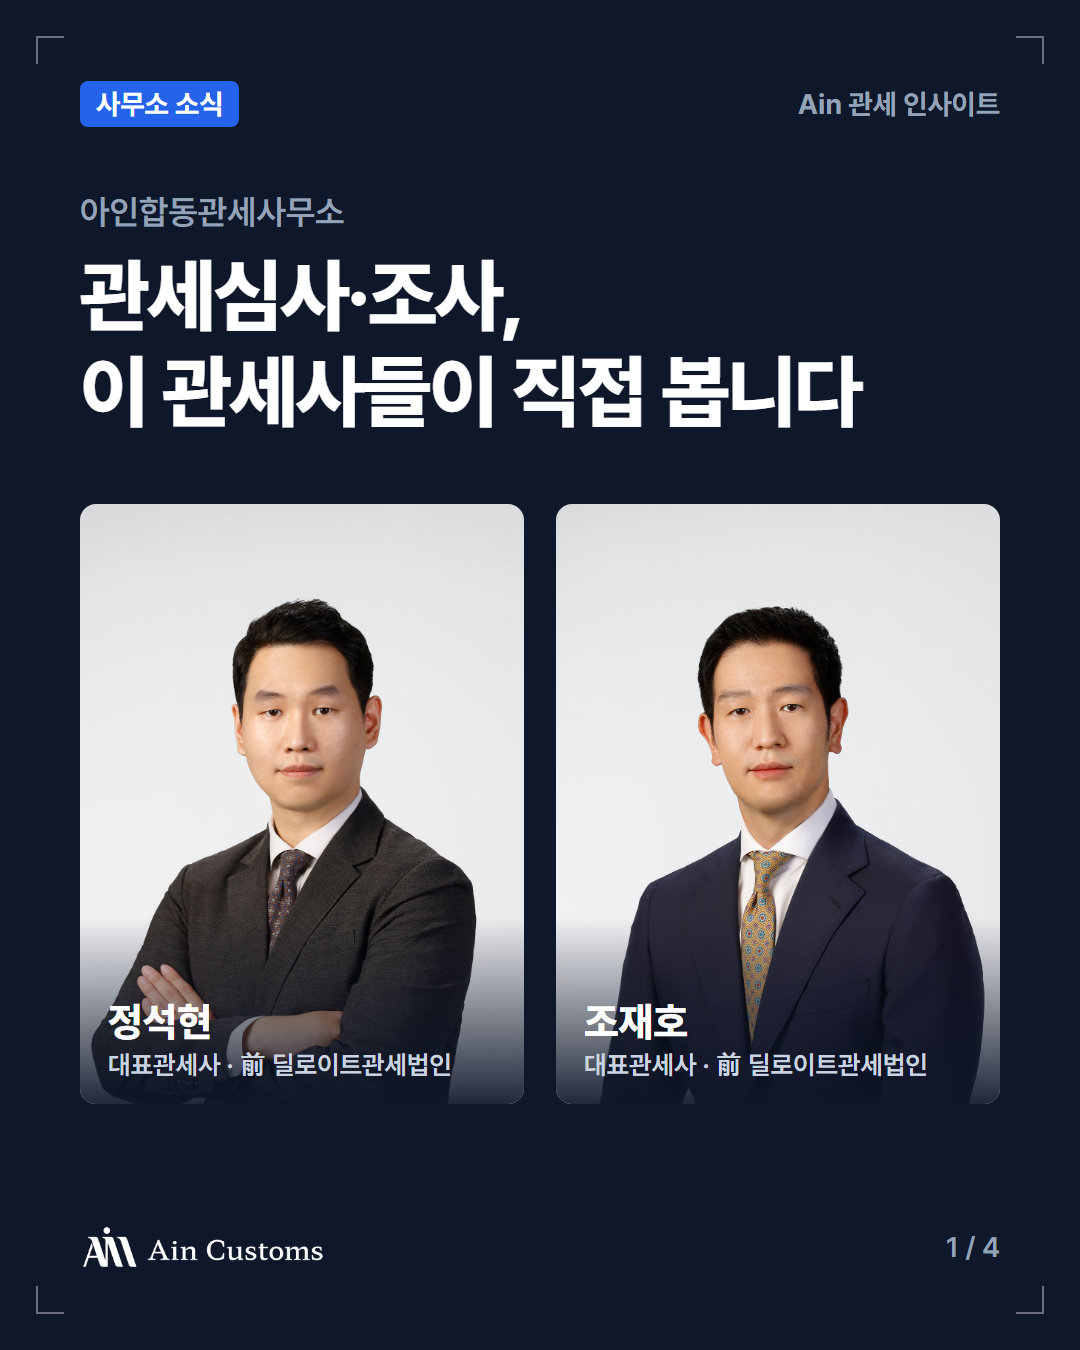
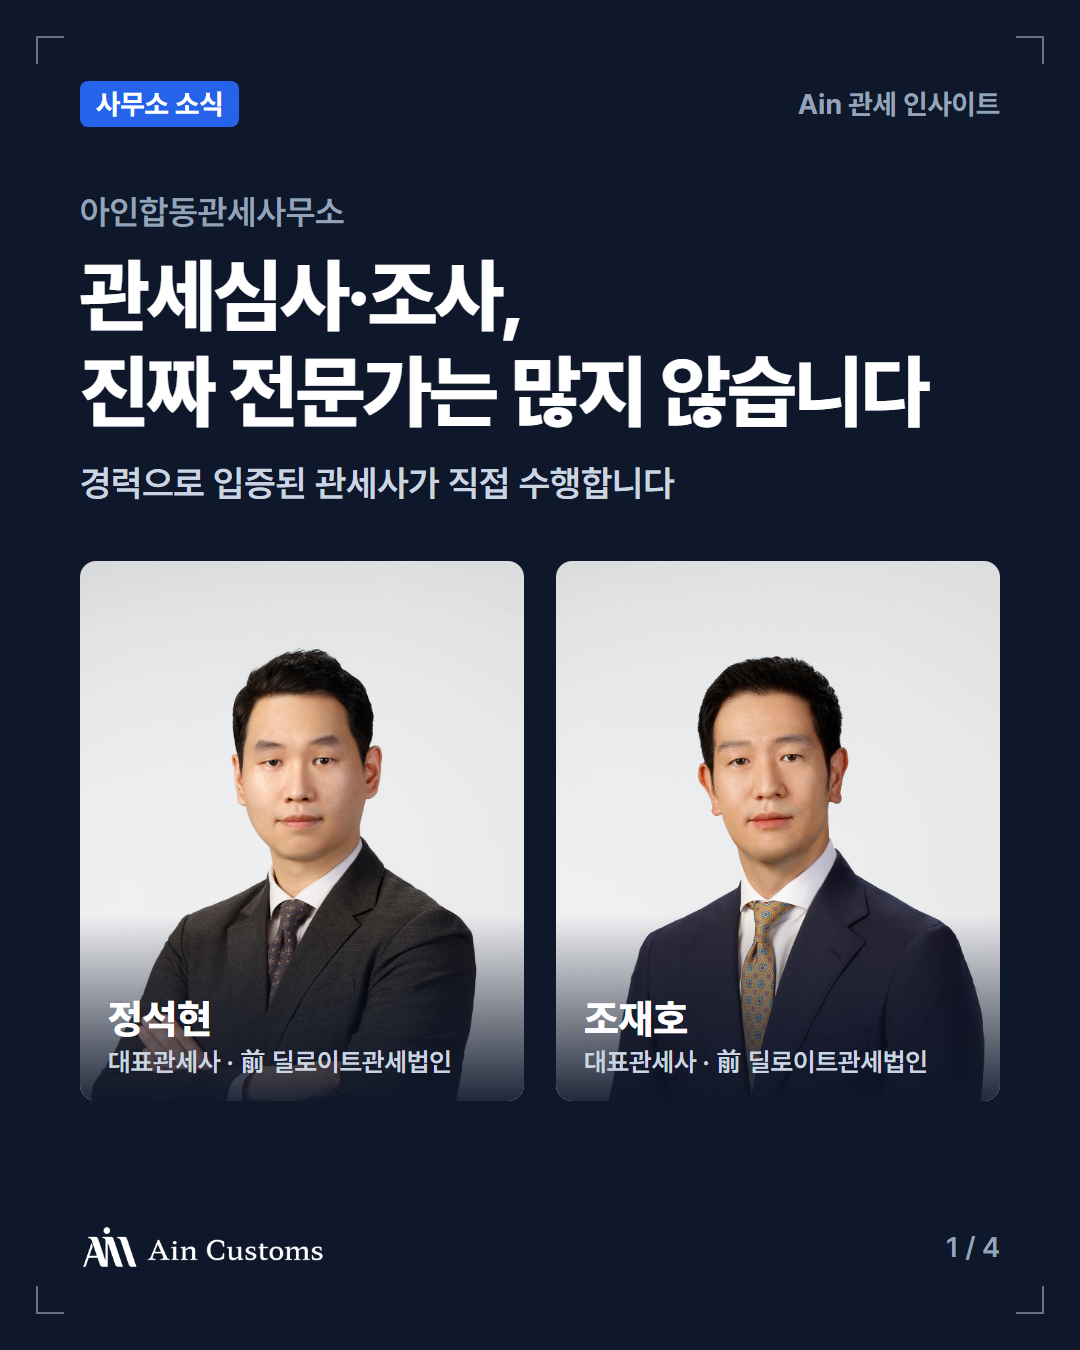
Add Instagram @aincustoms kit; refresh broker intro and add office-activity post
- content/instagram: CI profile image, captions for the 3 posts (intro, hand-carry
  card news, office activity), render script and activity card template
- broker intro: cover "관세심사·조사, 진짜 전문가는 많지 않습니다", key results row
  (industry only), exam-committee roles generalised
- activity-post.md: Naver post matching the Instagram activity post
- source photos and article captures stay out of the repo (.gitignore)

Changed region(s): [[0.0611, 0.2489, 0.9472, 0.8089], [0.8861, 0.7778, 0.9167, 0.8089], [0.7944, 0.7156, 0.825, 0.7467]]

diff --git a/content/instagram/activity.html b/content/instagram/activity.html
@@ -1,0 +1,81 @@
+<!doctype html>
+<html lang="ko">
+<head>
+<meta charset="utf-8">
+<title>사무소 활동 카드</title>
+<!-- Instagram post 3: 사무소 활동 (중진공 간담회 기사·발언 사진, 관세사회 강의 사진). Chrome copied from naver-blog/blog-skin/about.html. -->
+<style>
+@import url("../naver-blog/design/pretendard/pretendardvariable-dynamic-subset.css");
+:root { --navy: #0f172a; --blue: #2563eb; --slate-400: #94a3b8; --slate-300: #cbd5e1; --slate-200: #e2e8f0; --ink-3: #64748b; }
+* { box-sizing: border-box; margin: 0; padding: 0; }
+body { background: #444; padding: 40px; font-family: "Pretendard Variable", Pretendard, sans-serif; display: flex; flex-direction: column; gap: 40px; }
+.asset { position: relative; width: 1080px; height: 1350px; overflow: hidden; word-break: keep-all; padding: 80px; display: flex; flex-direction: column; }
+.reg i { position: absolute; width: 28px; height: 28px; border: 0 solid var(--rc); }
+.reg i:nth-child(1) { top: 36px; left: 36px; border-top-width: 2px; border-left-width: 2px; }
+.reg i:nth-child(2) { top: 36px; right: 36px; border-top-width: 2px; border-right-width: 2px; }
+.reg i:nth-child(3) { bottom: 36px; left: 36px; border-bottom-width: 2px; border-left-width: 2px; }
+.reg i:nth-child(4) { bottom: 36px; right: 36px; border-bottom-width: 2px; border-right-width: 2px; }
+.top { display: flex; justify-content: space-between; align-items: center; height: 48px; font-size: 28px; font-weight: 700; }
+.chip { background: var(--blue); color: #fff; padding: 6px 16px; border-radius: 8px; }
+.series { color: var(--slate-400); }
+.foot { margin-top: auto; display: flex; justify-content: space-between; align-items: center; font-size: 28px; font-weight: 600; }
+.logo { height: 46px; }
+.dark { background: var(--navy); color: #fff; --rc: rgba(255,255,255,.38); }
+.dark .logo { filter: brightness(0) invert(1); }
+.dark .foot { color: var(--slate-400); }
+.light { background: #fff; color: var(--navy); --rc: rgba(15,23,42,.3); }
+.light .series, .light .foot { color: var(--ink-3); }
+.kicker { font-size: 32px; font-weight: 600; color: var(--slate-400); margin-top: 56px; }
+h1 { font-size: 70px; font-weight: 800; line-height: 1.22; letter-spacing: -0.03em; margin-top: 16px; }
+.photo { margin-top: 52px; border-radius: 16px; overflow: hidden; background: #1e293b; }
+.photo img { width: 100%; height: 100%; object-fit: cover; display: block; }
+.cap { font-size: 28px; font-weight: 600; color: var(--slate-300); margin-top: 22px; line-height: 1.5; }
+
+#act-news .src { font-size: 30px; font-weight: 700; color: var(--ink-3); margin-top: 56px; }
+#act-news h1 { font-size: 60px; }
+.paper { margin-top: 44px; border: 2px solid var(--slate-200); border-radius: 16px; padding: 36px 40px; box-shadow: 0 10px 30px rgba(15,23,42,.08); }
+.head { position: relative; width: 100%; aspect-ratio: 1592 / 472; background: url(src/news-head.png) 0 0 / 100% auto no-repeat; }
+.head::after { content: ""; position: absolute; left: 18.6%; right: 0; bottom: 0; height: 45%; background: #fff; } /* hide page buttons */
+.para { position: relative; margin-top: 18px; padding-top: 22px; border-top: 2px dashed var(--slate-200); }
+.para img { width: 100%; display: block; }
+.para mark { position: absolute; left: 15.1%; width: 44.6%; top: calc(22px + 49%); height: 22%; background: rgba(250,204,21,.38); border-radius: 4px; }
+.from { font-size: 24px; color: var(--ink-3); font-weight: 600; margin-top: 22px; }
+</style>
+</head>
+<body>
+
+<section class="asset dark" id="act-cover">
+  <div class="reg"><i></i><i></i><i></i><i></i></div>
+  <div class="top"><span class="chip">사무소 소식</span><span class="series">아인합동관세사무소</span></div>
+  <div class="kicker">2026. 8. 27. 중진공 현장간담회 · 대전</div>
+  <h1>온라인 수출 애로,<br>관세 전문가로 현장에서<br>답했습니다</h1>
+  <div class="photo" style="height:600px"><img src="src/talk.png" alt="" style="object-position:70% 40%"></div>
+  <div class="cap">충청권 온라인수출 중소기업 애로해소 간담회 자문단 · 정석현 대표관세사</div>
+  <div class="foot"><img class="logo" src="../naver-blog/design/logo.png" alt=""><span>1 / 3</span></div>
+</section>
+
+<section class="asset light" id="act-news">
+  <div class="reg"><i></i><i></i><i></i><i></i></div>
+  <div class="top"><span class="chip">언론 보도</span><span class="series">아인합동관세사무소</span></div>
+  <div class="src">아시아경제 · 2026. 8. 27.</div>
+  <h1>중기 옴부즈만·중진공 간담회<br>자문단으로 참여</h1>
+  <div class="paper">
+    <div class="head"></div>
+    <div class="para"><img src="src/news-para.png" alt=""><mark id="hl"></mark></div>
+  </div>
+  <div class="from">출처: 아시아경제 「중기 옴부즈만-중진공, 온라인 수출 애로 현장 의견 청취」 (2026. 8. 27., 김철현 기자) 기사 일부 캡처</div>
+  <div class="foot"><img class="logo" src="../naver-blog/design/logo.png" alt=""><span>2 / 3</span></div>
+</section>
+
+<section class="asset dark" id="act-lecture">
+  <div class="reg"><i></i><i></i><i></i><i></i></div>
+  <div class="top"><span class="chip">강의</span><span class="series">아인합동관세사무소</span></div>
+  <div class="kicker">2026. 10. 15. 한국관세사회 관세사 특별교육</div>
+  <h1>AI를 활용한<br>관세사 업무전략</h1>
+  <div class="photo" style="height:640px"><img src="src/lecture.jpg" alt="" style="object-position:50% 30%"></div>
+  <div class="cap">관세사 대상 LLM 실무 활용 · 리걸테크와 의견서 작성 실습 강의</div>
+  <div class="foot"><img class="logo" src="../naver-blog/design/logo.png" alt=""><span>3 / 3</span></div>
+</section>
+
+</body>
+</html>

diff --git a/content/naver-blog/blog-skin/about.html b/content/naver-blog/blog-skin/about.html
@@ -27,8 +27,9 @@ body { background: #444; padding: 40px; font-family: "Pretendard Variable", Pret
 #about-cover .head { margin-top: 64px; }
 #about-cover .kicker { font-size: 34px; font-weight: 600; color: var(--slate-400); }
 #about-cover h1 { font-size: 80px; font-weight: 800; line-height: 1.2; letter-spacing: -0.03em; margin-top: 16px; }
-#about-cover .duo { display: grid; grid-template-columns: 1fr 1fr; gap: 32px; margin-top: 64px; }
-#about-cover figure { position: relative; border-radius: 16px; overflow: hidden; height: 600px; background: #1e293b; }
+#about-cover .duo { display: grid; grid-template-columns: 1fr 1fr; gap: 32px; margin-top: 56px; }
+#about-cover .sub { font-size: 36px; font-weight: 600; color: var(--slate-300); margin-top: 22px; }
+#about-cover figure { position: relative; border-radius: 16px; overflow: hidden; height: 540px; background: #1e293b; }
 #about-cover figure img { width: 100%; height: 100%; object-fit: cover; object-position: 50% 12%; display: block; }
 #about-cover figcaption { position: absolute; left: 0; right: 0; bottom: 0; padding: 80px 28px 24px; background: linear-gradient(transparent, rgba(15,23,42,.92)); }
 #about-cover figcaption b { font-size: 40px; font-weight: 800; display: block; }
@@ -50,9 +51,10 @@ body { background: #444; padding: 40px; font-family: "Pretendard Variable", Pret
 .person dd { font-size: 33px; font-weight: 600; line-height: 1.5; color: var(--ink-2); }
 .person dd b { color: var(--navy); font-weight: 800; }
 .person dd small { font-size: 26px; color: var(--ink-3); font-weight: 600; margin-left: 8px; }
-.cred-head { margin-top: 48px; }
-#about-cred h2 { font-size: 64px; line-height: 1.22; }
-#about-cred dl { margin-top: 44px; }
+.cred-head { margin-top: 36px; }
+#about-cred h2 { font-size: 58px; line-height: 1.22; }
+#about-cred dl { margin-top: 36px; }
+#about-cred dl > div { padding: 15px 0; }
 #about-cred dd { font-size: 30px; }
 #about-cred dd b { font-size: 33px; }
 </style>
@@ -64,7 +66,8 @@ body { background: #444; padding: 40px; font-family: "Pretendard Variable", Pret
   <div class="top"><span class="chip">사무소 소식</span><span class="series">Ain 관세 인사이트</span></div>
   <div class="head">
     <div class="kicker">아인합동관세사무소</div>
-    <h1>관세심사·조사,<br>이 관세사들이 직접 봅니다</h1>
+    <h1>관세심사·조사,<br>진짜 전문가는 많지 않습니다</h1>
+    <p class="sub">경력으로 입증된 관세사가 직접 수행합니다</p>
   </div>
   <div class="duo">
     <figure><img src="../../../images/jung-seokhyeon.jpg" alt=""><figcaption><b>정석현</b><span>대표관세사 · 前 딜로이트관세법인</span></figcaption></figure>
@@ -88,7 +91,7 @@ body { background: #444; padding: 40px; font-family: "Pretendard Variable", Pret
     <div><dt>현재</dt><dd><b>아인합동관세사무소 대표관세사</b><small>2023 ~</small></dd></div>
     <div><dt>경력</dt><dd><b>딜로이트관세법인</b><small>2017 ~ 2023</small><br>관세심사·조사, 외국환검사·조사 전담</dd></div>
     <div><dt>자격</dt><dd><b>관세사</b> · 원산지관리사 · 국제무역사</dd></div>
-    <div><dt>위원·자문</dt><dd><b>관세청 품목분류협의회 위원</b><br>원산지실무사 출제위원 · 원산지관리사 선정위원<br>한국원산지정보원 FTA 컨설턴트</dd></div>
+    <div><dt>위원·자문</dt><dd><b>관세청 품목분류협의회 위원</b><br>무역 자격증 출제위원·선정위원<br>한국원산지정보원 FTA 컨설턴트</dd></div>
     <div><dt>주요 수행</dt><dd>법인심사·종합심사 대리, 외환조사 대리<br>품목분류 사전심사·불복, ACVA 신청 대리</dd></div>
   </dl>
   <div class="foot"><img class="logo" src="../design/logo.png" alt=""><span>2 / 4</span></div>
@@ -121,6 +124,7 @@ body { background: #444; padding: 40px; font-family: "Pretendard Variable", Pret
     <h2>이런 사건을<br>직접 수행해 왔습니다</h2>
   </div>
   <dl>
+    <div><dt>주요 성과</dt><dd><b>축산물 할당관세 쟁점 방어 성공</b><br>식음료 프랜차이즈 관세심사 성공적 수행</dd></div>
     <div><dt>관세조사</dt><dd><b>법인심사·기획심사 대리</b><br>다국적: 자동차·의료기기·운동용품·가전·명품<br>국내: 조선·정유·석유화학·반도체장비·공항공사</dd></div>
     <div><dt>종합심사</dt><dd><b>AEO 종합심사 대리</b><br>중공업·자동차·전자·디스플레이·생활용품</dd></div>
     <div><dt>불복</dt><dd><b>품목분류·과세가격 쟁점 관세불복 대리</b><br>운동용품·디스플레이·무역상사·필름·공사</dd></div>

diff --git a/content/instagram/profile.html b/content/instagram/profile.html
@@ -1,0 +1,9 @@
+<!doctype html>
+<meta charset="utf-8">
+<!-- Instagram profile photo: CI symbol (left part of images/logo.png) on white; IG crops to a circle. -->
+<style>
+body { margin: 0; }
+section.asset { width: 1080px; height: 1080px; background: #fff; display: flex; align-items: center; justify-content: center; }
+.mark { width: 546px; height: 410px; margin-bottom: 20px; background: url(../../images/logo.png) no-repeat -34px -28px / 2520px auto; }
+</style>
+<section class="asset" id="profile"><div class="mark"></div></section>

diff --git a/content/instagram/README.md b/content/instagram/README.md
@@ -1,0 +1,106 @@
+# 아인합동관세사무소 Instagram
+
+계정 이메일: aincustomskr@gmail.com
+프로필 사진: out/profile.png (images/logo.png CI 심볼, `node render.mjs`로 재생성)
+게시물 이미지: 블로그 카드뉴스(1080×1350, 인스타 4:5 그대로 사용)
+
+## 프로필
+
+- 사용자 이름: aincustoms (불가 시 aincustoms_ → aincustoms.kr)
+- 이름: 아인합동관세사무소 | Ain Customs
+- 웹사이트: https://www.aincustoms.com
+- 소개(150자 이내):
+
+```
+관세심사·조사, 품목분류, FTA·원산지 전문 관세사
+기업 수출입 담당자를 위한 관세 정보를 전합니다
+📍 서울 강남구 학동로 43길 38, 145호
+☎ 02-518-5435 · jsh@aincustoms.com
+```
+
+- 프로페셔널 계정(비즈니스), 카테고리: 법률 서비스 계열
+- 연락처 버튼: 이메일 jsh@aincustoms.com, 전화 02-518-5435, 주소 서울본사
+
+## 게시물 1 — 대표관세사 소개 (2026-10-17 표지·캡션 교체: 차별성·전문성 강조, 주요 성과 추가)
+
+게시 순서: 1 소개 → 2 핸드캐리 → 3 활동 (소개가 가장 먼저 게시돼야 함)
+
+이미지(순서): naver-blog/blog-skin/out/about-cover.png, about-jsh.png, about-cjh.png, about-cred.png
+
+```
+관세심사·조사, 진짜 전문가는 많지 않습니다.
+
+관세심사·조사는 일반 통관과는 다른 특수한 영역입니다. 실제 사건을 맡아 처음부터 끝까지 수행해 본 경험은 회계법인·법무법인, 그리고 일부 대형 관세법인의 소수 관세사에게 집중되어 왔습니다. 경력으로 입증된 관세사가 많지 않은 이유입니다.
+
+아인합동관세사무소의 두 대표관세사는 딜로이트관세법인에서 다국적기업과 국내 대기업의 법인심사·기획심사, AEO 종합심사, 외환조사를 직접 수행해 왔습니다.
+
+정석현 대표관세사
+딜로이트관세법인(2017~2023)에서 관세심사·조사와 외국환검사·조사를 수행했습니다. 지금은 관세조사·종합심사 대리, 외환조사, 품목분류 사전심사와 불복을 주로 맡고 있습니다. 관세청 품목분류협의회 위원, 무역 자격증 출제위원·선정위원으로도 활동하고 있습니다.
+
+조재호 대표관세사
+관세법인 충정, 관세법인 에이원, 딜로이트관세법인을 거쳤습니다. 법인심사·종합심사 대리, 관세불복, ACVA·이전가격, 과세가격 사전심사를 주로 맡고 있습니다. 전략물자관리원 전략물자 컨설팅 전문위원, 한국무역협회 FTA 활용지원 컨설턴트로 활동하고 있습니다.
+
+주요 성과
+✔ 축산물 할당관세 쟁점, 방어에 성공했습니다
+✔ 식음료 프랜차이즈 관세심사를 성공적으로 수행했습니다
+
+직접 수행해 온 업무
+✔ 법인심사·기획심사 대리 (자동차·의료기기·가전·조선·석유화학·반도체장비 등)
+✔ AEO 종합심사 대리
+✔ 품목분류·과세가격 쟁점 관세불복
+✔ 품목분류·과세가격 사전심사, ACVA
+✔ 외환조사 대리·외국환 진단
+
+관세조사 통지를 받으셨거나 품목분류·과세가격 문제로 추징 위험이 있다면, 조사가 시작되기 전에 상담받아 보세요. 같은 사안도 초기 대응에 따라 결과가 달라집니다.
+
+☎ 02-518-5435
+✉ jsh@aincustoms.com
+🌐 www.aincustoms.com (프로필 링크)
+
+#아인합동관세사무소 #관세사 #관세조사 #관세심사 #법인심사 #종합심사 #외환조사 #품목분류 #관세불복 #정석현관세사 #조재호관세사
+```
+
+## 게시물 2 — 카드뉴스: 인천공항 핸드캐리 수입 어떻게? (블로그 06번, 조회수 1위)
+
+이미지: naver-blog/cards/06/card-01.png ~ card-08.png (2026-10-17 'Ain 관세 인사이트' 이름으로 재렌더링)
+
+```
+[통관 가이드] 출장길에 장비·샘플을 직접 들고 올 때, 인천공항 핸드캐리 수입 어떻게?
+
+결론부터: 회사 업무용 물품은 몸에 지니고 와도 정식 수입신고 대상입니다. 다시 가지고 나갈 물건이면 관세를 면제받을 수 있습니다(재수출면세).
+
+✔ 이럴 때 해당: 수리할 장비, 샘플·시험용 물품, 전시회 출품물
+✔ 준비서류: Invoice·Packing List(일련번호, 실제 제조국), 반입 사유서, 위임장
+✔ 전기제품이면 전안법 면제확인을 입국 전에 신청
+✔ 공항에서: '신고있음' 통로 → 유치증 수령 → 관세사 수입신고 → 유치품 찾는 곳에서 수령
+✔ 나갈 때도 수출신고와 적재 확인. 기간 내 미수출 시 면제 관세 징수 + 관세의 20% 가산세(500만원 한도)
+✔ 신고 없이 나오면 납부세액의 40% 가산세가 붙을 수 있습니다
+
+근거: 관세법 제97조 제1항 제1호, 시행규칙 제50조 제1항 제6·10·11호, 전기용품 및 생활용품 안전관리법 제6조 제2호, 외국환거래규정 제6-2조 제2항
+
+전문은 블로그 'Ain 관세 인사이트'에서 볼 수 있습니다(프로필 링크).
+핸드캐리 반입 서류 검토부터 재반출 수출신고까지 아인합동관세사무소로 문의해 주세요.
+
+#핸드캐리 #인천공항 #재수출면세 #유치증 #휴대품통관 #수입통관 #전안법 #관세 #관세사 #아인합동관세사무소
+```
+
+## 게시물 3 — 사무소 활동 (중진공 간담회 기사, 관세사회 강의)
+
+이미지: out/act-cover.png, out/act-news.png, out/act-lecture.png (`node render.mjs activity.html`)
+사진 원본: Y:/1. 업무/000. 기타업무/999. 위촉장 등/01. 실적자료 (src/에 사본). 기사 캡처: 아시아경제 2026. 8. 27. https://view.asiae.co.kr/article/2026082714395365110
+
+```
+[사무소 소식] 현장에서 기업의 수출입 애로를 함께 풀고 있습니다.
+
+📍 2026. 8. 27. 중진공 현장간담회(대전)
+중소기업 옴부즈만과 중소벤처기업진흥공단이 연 충청권 온라인수출 중소기업 애로해소 간담회에 정석현 대표관세사가 자문단으로 참여해, 통관·HS 코드 등 관세 분야 애로에 답했습니다.
+(아시아경제 「중기 옴부즈만-중진공, 온라인 수출 애로 현장 의견 청취」, 2026. 8. 27.)
+
+📍 2026. 10. 15. 한국관세사회 관세사 특별교육
+「AI를 활용한 관세사 업무전략」을 주제로 관세사 대상 LLM 실무 활용, 리걸테크와 의견서 작성 실습 강의를 진행했습니다.
+
+수출입 현장의 고민, 아인합동관세사무소와 상의하세요.
+☎ 02-518-5435 · ✉ jsh@aincustoms.com
+
+#아인합동관세사무소 #관세사 #중소벤처기업진흥공단 #중진공 #중소기업옴부즈만 #온라인수출 #한국관세사회 #관세사교육 #AI #리걸테크
+```

diff --git a/content/naver-blog/blog-skin/about-post.md b/content/naver-blog/blog-skin/about-post.md
@@ -2,15 +2,20 @@
 
 [이미지 about-cover.png]
 
-안녕하세요, 아인합동관세사무소입니다.
-Ain 관세 인사이트에 올라오는 글은 저희 관세사들이 직접 검토해 작성합니다.
-어떤 관세사가 쓰고 있는지 먼저 소개드립니다.
+관세심사·조사, 진짜 전문가는 많지 않습니다.
+
+관세심사·조사는 일반 통관과는 다른 특수한 영역입니다.
+실제 사건을 맡아 처음부터 끝까지 수행해 본 경험은 회계법인·법무법인, 그리고 일부 대형 관세법인의 소수 관세사에게 집중되어 왔습니다.
+경력으로 입증된 관세사가 많지 않은 이유입니다.
+
+아인합동관세사무소의 두 대표관세사는 딜로이트관세법인에서 다국적기업과 국내 대기업의 법인심사·기획심사, AEO 종합심사, 외환조사를 직접 수행해 왔습니다.
+Ain 관세 인사이트에 올라오는 글도 저희 관세사들이 직접 검토해 작성합니다.
 
 [이미지 about-jsh.png]
 
 정석현 대표관세사는 2017년부터 2023년까지 딜로이트관세법인에서 근무하며 관세심사·조사와 외국환검사·조사 업무를 전문적으로 수행했습니다.
 현재는 관세조사·종합심사 대리, 외환조사, 품목분류 사전심사와 불복을 주로 맡고 있습니다.
-관세청 품목분류협의회 위원, 원산지실무사 출제위원, 원산지관리사 선정위원으로도 활동하고 있습니다.
+관세청 품목분류협의회 위원, 무역 자격증 출제위원·선정위원으로도 활동하고 있습니다.
 
 [이미지 about-cjh.png]
 
@@ -20,6 +25,17 @@ Ain 관세 인사이트에 올라오는 글은 저희 관세사들이 직접 검
 
 [이미지 about-cred.png]
 
+주요 성과
+- 축산물 할당관세 쟁점, 방어에 성공했습니다.
+- 식음료 프랜차이즈 관세심사를 성공적으로 수행했습니다.
+
+직접 수행해 온 업무
+- 법인심사·기획심사 대리 (자동차·의료기기·가전·조선·석유화학·반도체장비 등)
+- AEO 종합심사 대리
+- 품목분류·과세가격 쟁점 관세불복
+- 품목분류·과세가격 사전심사, ACVA
+- 외환조사 대리·외국환 진단
+
 관세조사 통지를 받으셨거나, 품목분류·과세가격 문제로 추징 위험이 있다면 조사가 시작되기 전에 상담받아 보시길 권합니다.
 같은 사안이라도 초기에 어떻게 대응하느냐에 따라 결과가 달라지는 경우가 많습니다.
 
@@ -27,5 +43,6 @@ Ain 관세 인사이트에 올라오는 글은 저희 관세사들이 직접 검
 - 전화 02-518-5435
 - 이메일 jsh@aincustoms.com
 - 홈페이지 https://www.aincustoms.com
+- 인스타그램 https://www.instagram.com/aincustoms/
 
-태그: #아인합동관세사무소 #관세사 #관세조사 #관세심사 #정석현관세사 #조재호관세사 #관세불복
+태그: #아인합동관세사무소 #관세사 #관세조사 #관세심사 #법인심사 #종합심사 #외환조사 #정석현관세사 #조재호관세사 #관세불복

diff --git a/content/naver-blog/blog-skin/activity-post.md b/content/naver-blog/blog-skin/activity-post.md
@@ -1,0 +1,30 @@
+# [사무소 소식] 중진공 현장간담회 자문단 참여, 한국관세사회 AI 강의
+
+카테고리: 사무소 소식
+이미지 폴더: content/instagram/out (인스타그램 게시물과 같은 카드)
+
+[이미지 act-cover.png]
+
+현장에서 기업의 수출입 애로를 함께 풀고 있습니다.
+
+2026년 8월 27일 대전 예람인재교육센터에서 중소기업 옴부즈만과 중소벤처기업진흥공단이 연 '충청권 온라인수출 중소기업 애로해소 간담회'에 정석현 대표관세사가 자문단으로 참여했습니다.
+온라인 수출 기업들이 건의한 통관·HS 코드 등 관세 분야 애로에 대해 현장에서 의견을 드렸습니다.
+
+[이미지 act-news.png]
+
+이 간담회 소식은 아시아경제에도 보도되었습니다.
+출처: 아시아경제 「중기 옴부즈만-중진공, 온라인 수출 애로 현장 의견 청취」(2026. 8. 27., 김철현 기자)
+https://view.asiae.co.kr/article/2026082714395365110
+
+[이미지 act-lecture.png]
+
+2026년 10월 15일에는 한국관세사회 관세사 특별교육에서 「AI를 활용한 관세사 업무전략」을 주제로 강의했습니다.
+관세사를 대상으로 LLM 실무 활용, 리걸테크와 의견서 작성 실습을 진행했습니다.
+
+수출입 현장의 고민, 아인합동관세사무소와 상의하세요.
+- 전화 02-518-5435
+- 이메일 jsh@aincustoms.com
+- 홈페이지 https://www.aincustoms.com
+- 인스타그램 https://www.instagram.com/aincustoms/
+
+태그: #아인합동관세사무소 #관세사 #중소벤처기업진흥공단 #중진공 #중소기업옴부즈만 #온라인수출 #한국관세사회 #관세사교육 #AI #리걸테크
